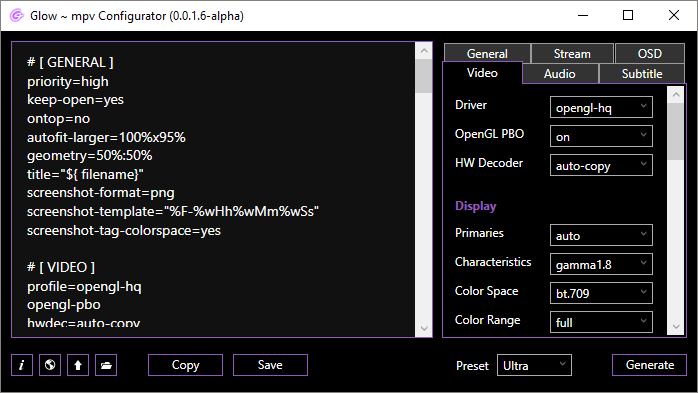
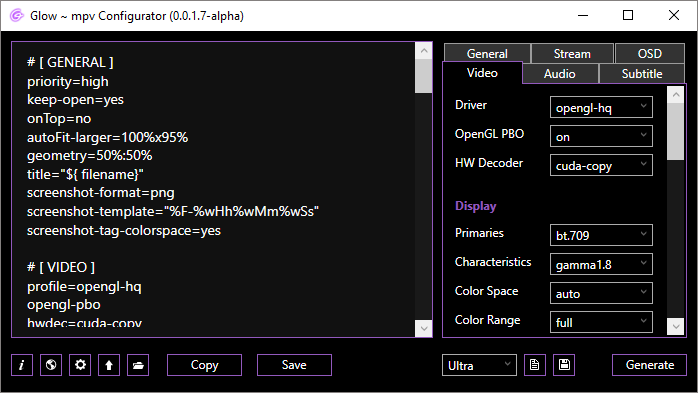
v0.0.1.7-alpha Update
Added Window Centered
Change Check For Internet Connection
Fixed INI Audio/Subtitles Languages

diff --git a/source/Glow/MainWindow.xaml b/source/Glow/MainWindow.xaml
@@ -1419,7 +1419,7 @@
                                           Margin="10,358,42,0"
                                           VerticalAlignment="Top"
                                           BorderThickness="0"
-                                          ItemsSource="{Binding SubtitleLanguageItems}"
+                                          ItemsSource="{Binding SubtitlesLanguageItems}"
                                           SelectionChanged="listViewSubtitleLanguages_SelectionChanged" 
                                           Style="{DynamicResource ListViewStyle}">
 
@@ -2473,7 +2473,7 @@
 
             <!-- Export ini -->
             <Button x:Name="buttonExport"
-                    Margin="0,0,123,16" 
+                    Margin="0,0,122,16" 
                     Width="22" Height="22"
                     VerticalAlignment="Bottom" 
                     HorizontalAlignment="Right" 
@@ -2495,7 +2495,7 @@
             <!-- Export ini -->
             <Button x:Name="buttonImport" 
                     HorizontalAlignment="Right"
-                    Margin="0,0,152,16" 
+                    Margin="0,0,151,16" 
                     VerticalAlignment="Bottom" 
                     Width="22" Height="22"
                     Cursor="Hand" 

diff --git a/source/Glow/Profiles.cs b/source/Glow/Profiles.cs
@@ -20,6 +20,7 @@ along with this program.If not, see <http://www.gnu.org/licenses/>.
 ---------------------------------------------------------------------- */
 using System;
 using System.Collections.Generic;
+using System.Collections.ObjectModel;
 using System.Linq;
 using System.Runtime.InteropServices;
 using System.Text;
@@ -814,13 +815,23 @@ namespace Glow
             // --------------------------------------------------
             inif.Write("Audio", "driver", mainwindow.cboAudioDriver.SelectedItem.ToString());
 
-            List<string> listLangAudio = new List<string>();
+            // -------------------------
+            // Languages
+            // -------------------------
+            // Order
+            List<string> listAudioLangOrder = new List<string>(MainWindow.AudioLanguageItems);
+            string audioLanguagesOrder = string.Join(",", listAudioLangOrder.Where(s => !string.IsNullOrEmpty(s)));
+            inif.Write("Audio", "languagesOrder", audioLanguagesOrder);
+
+            // Selected
+            List<string> listAudioLangSelected = new List<string>();
             foreach (string item in mainwindow.listViewAudioLanguages.SelectedItems)
             {
-                listLangAudio.Add(item);
+                // add checked item name to list
+                listAudioLangSelected.Add(item);
             }
-            string languagesAudio = string.Join(",", listLangAudio.Where(s => !string.IsNullOrEmpty(s)));
-            inif.Write("Audio", "languages", languagesAudio);
+            string audioLanguagesSelected = string.Join(",", listAudioLangSelected.Where(s => !string.IsNullOrEmpty(s)));
+            inif.Write("Audio", "languagesSelected", audioLanguagesSelected);
 
             inif.Write("Audio", "channels", mainwindow.cboChannels.SelectedItem.ToString());
             inif.Write("Audio", "volume", mainwindow.tbxVolume.Text.ToString());
@@ -836,13 +847,22 @@ namespace Glow
             // --------------------------------------------------
             inif.Write("Subtitles", "subtitles", mainwindow.cboSubtitles.SelectedItem.ToString());
 
-            List<string> listLangSubtitles = new List<string>();
+            // -------------------------
+            // Languages
+            // -------------------------
+            // Order
+            List<string> listSubtitlesLangOrder = new List<string>(MainWindow.SubtitlesLanguageItems);
+            string subtitlesLanguagesOrder = string.Join(",", listSubtitlesLangOrder.Where(s => !string.IsNullOrEmpty(s)));
+            inif.Write("Subtitles", "languagesOrder", subtitlesLanguagesOrder);
+
+            // Selected
+            List<string> listSubtitlesLang = new List<string>();
             foreach (string item in mainwindow.listViewSubtitlesLanguages.SelectedItems)
             {
-                listLangSubtitles.Add(item);
+                listSubtitlesLang.Add(item);
             }
-            string languagesSubtitles = string.Join(",", listLangAudio.Where(s => !string.IsNullOrEmpty(s)));
-            inif.Write("Subtitles", "languages", languagesSubtitles);
+            string subtitlesLanguages = string.Join(",", listSubtitlesLang.Where(s => !string.IsNullOrEmpty(s)));
+            inif.Write("Subtitles", "languagesSelected", subtitlesLanguages);
 
             //inif.Write("Subtitles", "embeddedFonts", mainwindow.cboAudioLoadFiles.SelectedItem.ToString());
             inif.Write("Subtitles", "loadFiles", mainwindow.cboSubtitlesLoadFiles.SelectedItem.ToString());
@@ -1172,7 +1192,9 @@ namespace Glow
             // Soft Volume Max
             mainwindow.tbxSoftVolumeMax.Text = inif.Read("Audio", "softVolumeMax");
 
+            // -------------------------
             // Normalize
+            // -------------------------
             string normalize = inif.Read("Audio", "normalize");
             if (mainwindow.cboNormalize.Items.Contains(normalize))
                 mainwindow.cboNormalize.SelectedItem = normalize;
@@ -1180,7 +1202,9 @@ namespace Glow
                 listFailedImports.Add("Audio: Normalize");
             //mainwindow.cboNormalize.SelectedItem = inif.Read("Audio", "normalize");
 
+            // -------------------------
             // Load Files
+            // -------------------------
             string AudioLoadFiles = inif.Read("Audio", "loadFiles");
             if (mainwindow.cboAudioLoadFiles.Items.Contains(AudioLoadFiles))
                 mainwindow.cboAudioLoadFiles.SelectedItem = AudioLoadFiles;
@@ -1188,18 +1212,35 @@ namespace Glow
                 listFailedImports.Add("Audio: Load Files");
             //mainwindow.cboAudioLoadFiles.SelectedItem = inif.Read("Audio", "loadFiles");
 
+            // -------------------------
             // languages
-            string languagesAudio = inif.Read("Audio", "languages");
-            string[] arrLangAudio = languagesAudio.Split(',');
-            foreach (string item in arrLangAudio)
+            // -------------------------
+            // Order
+            // import full list new order
+            string audioLangOrder = inif.Read("Audio", "languagesOrder");
+            string[] arrAudioLangOrder = audioLangOrder.Split(',');
+            // recreate the list
+            MainWindow.listAudioLang = new List<string>(arrAudioLangOrder);
+            // recreate item sources
+            MainWindow._audioLangItems = new ObservableCollection<string>(MainWindow.listAudioLang);
+            mainwindow.listViewAudioLanguages.ItemsSource = MainWindow._audioLangItems;
+
+            // Selected
+            string audioLanguagesSelected = inif.Read("Audio", "languagesSelected");
+            // Empty List Check
+            if (!string.IsNullOrEmpty(audioLanguagesSelected))
             {
-                if (mainwindow.listViewAudioLanguages.Items.Contains(item))
+                string[] arrAudioLang = audioLanguagesSelected.Split(',');
+                foreach (string item in arrAudioLang)
                 {
-                    mainwindow.listViewAudioLanguages.SelectedItems.Add(item);
-                }  
-                else
-                {
-                    listFailedImports.Add("Audio Languages: " + item);
+                    if (mainwindow.listViewAudioLanguages.Items.Contains(item))
+                    {
+                        mainwindow.listViewAudioLanguages.SelectedItems.Add(item);
+                    }
+                    else
+                    {
+                        listFailedImports.Add("Audio Languages: " + item);
+                    }
                 }
             }
 
@@ -1284,18 +1325,35 @@ namespace Glow
                 listFailedImports.Add("Subtitles: Blend");
             //mainwindow.cboSubtitlesBlend.SelectedItem = inif.Read("Subtitles", "blend");
 
+            // -------------------------
             // languages
-            string languagesSubtitles = inif.Read("Subtitles", "languages");
-            string[] arrLangSubs = languagesSubtitles.Split(',');
-            foreach (string item in arrLangSubs)
+            // -------------------------
+            // Order
+            // import full list new order
+            string subtitlesLangOrder = inif.Read("Subtitles", "languagesOrder");
+            string[] arrSubtitlesLangOrder = subtitlesLangOrder.Split(',');
+            // recreate the list
+            MainWindow.listSubtitlesLang = new List<string>(arrSubtitlesLangOrder);
+            // recreate item sources
+            MainWindow._subsLangItems = new ObservableCollection<string>(MainWindow.listSubtitlesLang);
+            mainwindow.listViewSubtitlesLanguages.ItemsSource = MainWindow._subsLangItems;
+
+            // Selected
+            string subtitlesLanguagesSelected = inif.Read("Subtitles", "languagesSelected");
+            // Empty List Check
+            if (!string.IsNullOrEmpty(subtitlesLanguagesSelected))
             {
-                if (mainwindow.listViewSubtitlesLanguages.Items.Contains(item))
+                string[] arrSubtitlesLang = subtitlesLanguagesSelected.Split(',');
+                foreach (string item in arrSubtitlesLang)
                 {
-                    mainwindow.listViewSubtitlesLanguages.SelectedItems.Add(item);
-                }
-                else
-                {
-                    listFailedImports.Add("Subtitle Languages: " + item);
+                    if (mainwindow.listViewSubtitlesLanguages.Items.Contains(item))
+                    {
+                        mainwindow.listViewSubtitlesLanguages.SelectedItems.Add(item);
+                    }
+                    else
+                    {
+                        listFailedImports.Add("Subtitles Languages: " + item);
+                    }
                 }
             }
 

diff --git a/source/Glow/MainWindow.xaml.cs b/source/Glow/MainWindow.xaml.cs
@@ -81,7 +81,7 @@ namespace Glow
         // -------------------------
         // Bind Audio Language Items
         // -------------------------
-        private static List<string> listAudioLang = Languages.listLanguages;
+        public static List<string> listAudioLang = Languages.listLanguages;
 
         public static ObservableCollection<string> _audioLangItems = new ObservableCollection<string>(listAudioLang);
         public static ObservableCollection<string> AudioLanguageItems
@@ -93,13 +93,13 @@ namespace Glow
         // -------------------------
         // Bind Subtitle Language Items
         // -------------------------
-        private static List<string> listSubtitleLang = Languages.listLanguages;
+        public static List<string> listSubtitlesLang = Languages.listLanguages;
 
-        public static ObservableCollection<string> _subLangItems = new ObservableCollection<string>(listSubtitleLang);
-        public static ObservableCollection<string> SubtitleLanguageItems
+        public static ObservableCollection<string> _subsLangItems = new ObservableCollection<string>(listSubtitlesLang);
+        public static ObservableCollection<string> SubtitlesLanguageItems
         {
-            get { return _subLangItems; }
-            set { _subLangItems = value; }
+            get { return _subsLangItems; }
+            set { _subsLangItems = value; }
         }
 
 
@@ -163,15 +163,25 @@ namespace Glow
             // Load Saved Settings
             // --------------------------------------------------
             // Window Position
-            this.Top = Settings.Default.Top;
-            this.Left = Settings.Default.Left;
-            this.Height = Settings.Default.Height;
-            this.Width = Settings.Default.Width;
-
-            if (Settings.Default.Maximized)
+            // First time use
+            if (Convert.ToDouble(Settings.Default["Left"]) == 0 && Convert.ToDouble(Settings.Default["Top"]) == 0)
             {
-                WindowState = WindowState.Maximized;
+                this.WindowStartupLocation = WindowStartupLocation.CenterScreen;
             }
+            // Load Saved
+            else
+            { 
+                this.Top = Settings.Default.Top;
+                this.Left = Settings.Default.Left;
+                this.Height = Settings.Default.Height;
+                this.Width = Settings.Default.Width;
+
+                if (Settings.Default.Maximized)
+                {
+                    WindowState = WindowState.Maximized;
+                }
+            }
+            
 
             // --------------------------------------------------
             // Load Fonts
@@ -615,9 +625,9 @@ namespace Glow
 
             if (selectedIndex > 0)
             {
-                var itemToMoveUp = SubtitleLanguageItems[selectedIndex];
-                SubtitleLanguageItems.RemoveAt(selectedIndex);
-                SubtitleLanguageItems.Insert(selectedIndex - 1, itemToMoveUp);
+                var itemToMoveUp = SubtitlesLanguageItems[selectedIndex];
+                SubtitlesLanguageItems.RemoveAt(selectedIndex);
+                SubtitlesLanguageItems.Insert(selectedIndex - 1, itemToMoveUp);
                 this.listViewSubtitlesLanguages.SelectedIndex = selectedIndex - 1;
             }
         }
@@ -628,11 +638,11 @@ namespace Glow
         {
             var selectedIndex = this.listViewSubtitlesLanguages.SelectedIndex;
 
-            if (selectedIndex + 1 < SubtitleLanguageItems.Count)
+            if (selectedIndex + 1 < SubtitlesLanguageItems.Count)
             {
-                var itemToMoveDown = SubtitleLanguageItems[selectedIndex];
-                SubtitleLanguageItems.RemoveAt(selectedIndex);
-                SubtitleLanguageItems.Insert(selectedIndex + 1, itemToMoveDown);
+                var itemToMoveDown = SubtitlesLanguageItems[selectedIndex];
+                SubtitlesLanguageItems.RemoveAt(selectedIndex);
+                SubtitlesLanguageItems.Insert(selectedIndex + 1, itemToMoveDown);
                 this.listViewSubtitlesLanguages.SelectedIndex = selectedIndex + 1;
             }
         }
@@ -959,8 +969,18 @@ namespace Glow
             {
                 // Set Input Dir, Name, Ext
                 string inputDir = Path.GetDirectoryName(saveFile.FileName).TrimEnd('\\') + @"\";
+                //string inputFileName = Path.GetFileName(saveFile.FileName);
                 string inputFileName = Path.GetFileNameWithoutExtension(saveFile.FileName);
                 string inputExt = Path.GetExtension(saveFile.FileName);
+                //string input = Path.Combine(inputDir, inputFileName);
+                string input = inputDir + inputFileName + inputExt;
+
+                // Overwriting doesn't work properly with INI Writer
+                // Delete File instead before saving new
+                if (File.Exists(input))
+                {
+                    File.Delete(input);
+                }
 
                 // Export ini file
                 Profiles.ExportProfile(this, inputDir, inputFileName, inputExt);
@@ -997,8 +1017,11 @@ namespace Glow
             {
                 // Set Input Dir, Name, Ext
                 string inputDir = Path.GetDirectoryName(selectFile.FileName).TrimEnd('\\') + @"\";
+                //string inputFileName = Path.GetFileName(selectFile.FileName);
                 string inputFileName = Path.GetFileNameWithoutExtension(selectFile.FileName);
                 string inputExt = Path.GetExtension(selectFile.FileName);
+                //string input = Path.Combine(inputDir, inputFileName);
+                //string input = inputDir + inputFileName + inputExt;
 
                 // Import ini file
                 Profiles.ImportProfile(this, inputDir, inputFileName, inputExt);

diff --git a/source/Glow/UpdateWindow.xaml.cs b/source/Glow/UpdateWindow.xaml.cs
@@ -44,7 +44,7 @@ namespace Glow
 
         // Web Downloads
         public static WebClient wc = new WebClient();
-        public static ManualResetEvent waiter = new ManualResetEvent(false); // Download one at a time
+        public static ManualResetEvent waiter = new ManualResetEvent(false);
 
         // Progress Label Info
         public static string progressInfo;
@@ -110,22 +110,13 @@ namespace Glow
         // -------------------------
         // Check For Internet Connection
         // -------------------------
+        [System.Runtime.InteropServices.DllImport("wininet.dll")]
+        private extern static bool InternetGetConnectedState(out int Description, int ReservedValue);
+
         public static bool CheckForInternetConnection()
         {
-            try
-            {
-                using (var client = new WebClient())
-                {
-                    using (client.OpenRead("http://clients3.google.com/generate_204"))
-                    {
-                        return true;
-                    }
-                }
-            }
-            catch
-            {
-                return false;
-            }
+            int desc;
+            return InternetGetConnectedState(out desc, 0);
         }
 
 
